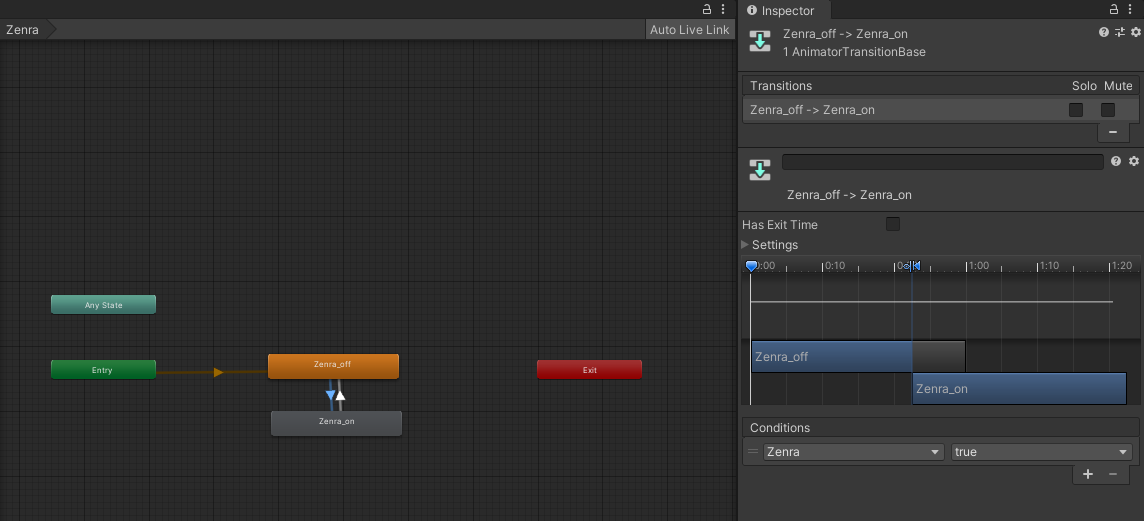
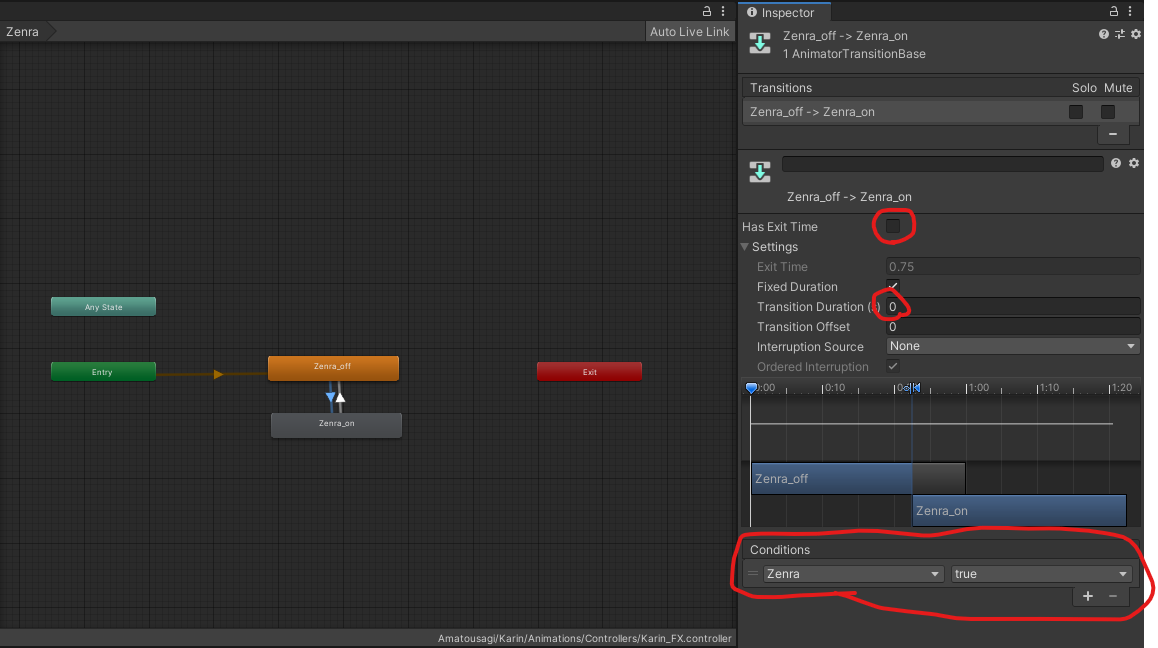
Trasition周りの説明を強化

diff --git a/03_vrchat/20231104_アバタームキムキ手順/01_アバタームキムキ.md b/03_vrchat/20231104_アバタームキムキ手順/01_アバタームキムキ.md
@@ -76,15 +76,18 @@ VRCの「風呂のあるお部屋 YUTOROOM -ゆとるーむ‐」は素晴らし
     * Layerのタブにも追加。Weightも設定しないと有効にならないので注意。この名称はparameterに脱衣用の変数名と同じにする事。
         * ![aa](07_02_add_parm.png)
 1. ステートフローの設定
-    * ![aa](08_01_status.png)
-        * Create->Emptyでステータスを作成して「Zenra_on」を作成（「Zenra_off」も同様）
-        * 「Zenra_on」を右クリックで「Make Transition」を選択して「Zenra_off」をクリック（逆も同様）
+    * Create->Emptyでステータスを作成して「Zenra_on」を作成（「Zenra_off」も同様）
+    * 「Zenra_on」を右クリックで「Make Transition」を選択して「Zenra_off」をクリック（逆も同様）
+        * ![aa](08_01_status.png)
+
 1. ステートの設定
     * ステート及び矢印をクリックして以下の通り設定
+    * ステートはMotionが入っていること、Write Defaultsにチェックがあることを確認
         * ステート：zenra_on
             * ![aa](09_01_zenra_on.png)
         * ステート：zenra_off
             * ![aa](09_02_zenra_off.png)
+    * TransitionはHas Exit Timeのチェックを外す、Durationを0、Conditionsをそれぞれ設定していることを確認
         * Transition:on->off
             * ![aa](09_03_on_off.png)
         * Transition:off->on
@@ -93,18 +96,20 @@ VRCの「風呂のあるお部屋 YUTOROOM -ゆとるーむ‐」は素晴らし
 ### 脱衣ボタンの処理の作成
 
 1. inspectorのAnimatorのControllerにFXのアニメーションコントローラを設定
-    * ![aa](10_01_avater_fx.png)
-    * ![aa](10_02_setting.png)
-        * inspectorのPlayable LayerのFXと同じファイルを指定
+    * inspectorのPlayable LayerのFXと同じファイルを指定
         * 一時的に設定するだけで後で削除する
+        * ![aa](10_01_avater_fx.png)
+        * ![aa](10_02_setting.png)
+
 1. アニメーションの設定準備
     1. menuからwindowを出す。
         * ![aa](11_01_menu.png)
         * ![aa](11_02_animation_menu.png)
     1. HierarchyからKarinを選択後、Zenra_onを指定してRecを押下
-        * ![aa](11_03_rec.png)
-            * Hierarchyで指定しないとRecできないので注意
-            * Rec押すとアバターのポーズが変わる
+        * Hierarchyで指定しないとRecできないので注意
+        * Rec押すとアバターのポーズが変わる
+            * ![aa](11_03_rec.png)
+
 1. アニメーションの設定
     1. Rec状態で操作した内容が記録されるのでムキムキする。Recボタンをもう一度押すと記録を終了する。
         * 例：Hierarchyからshoesを選択してInspectorのチェックを外すと靴が消え、Animationにも記録される
